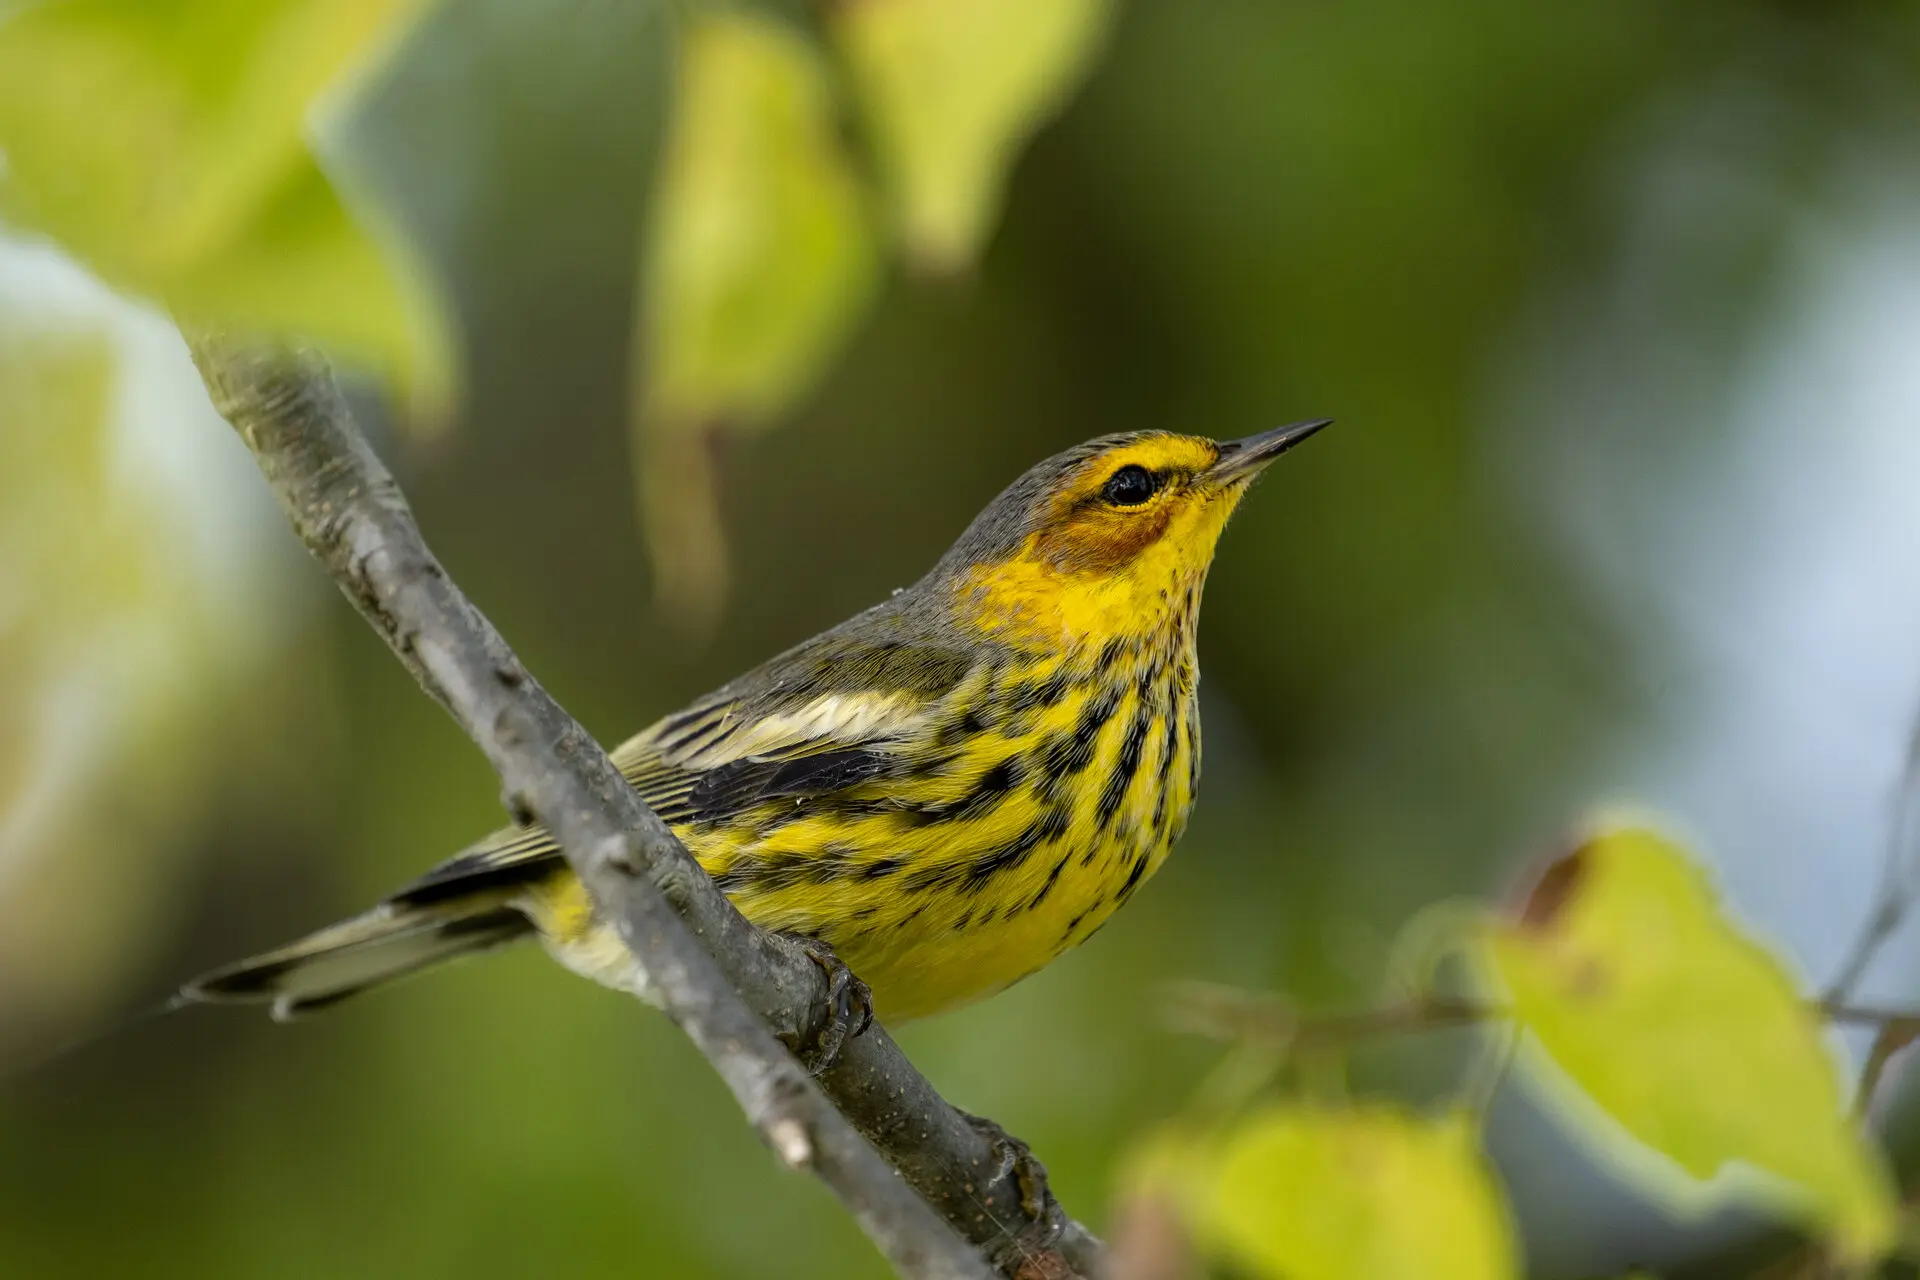
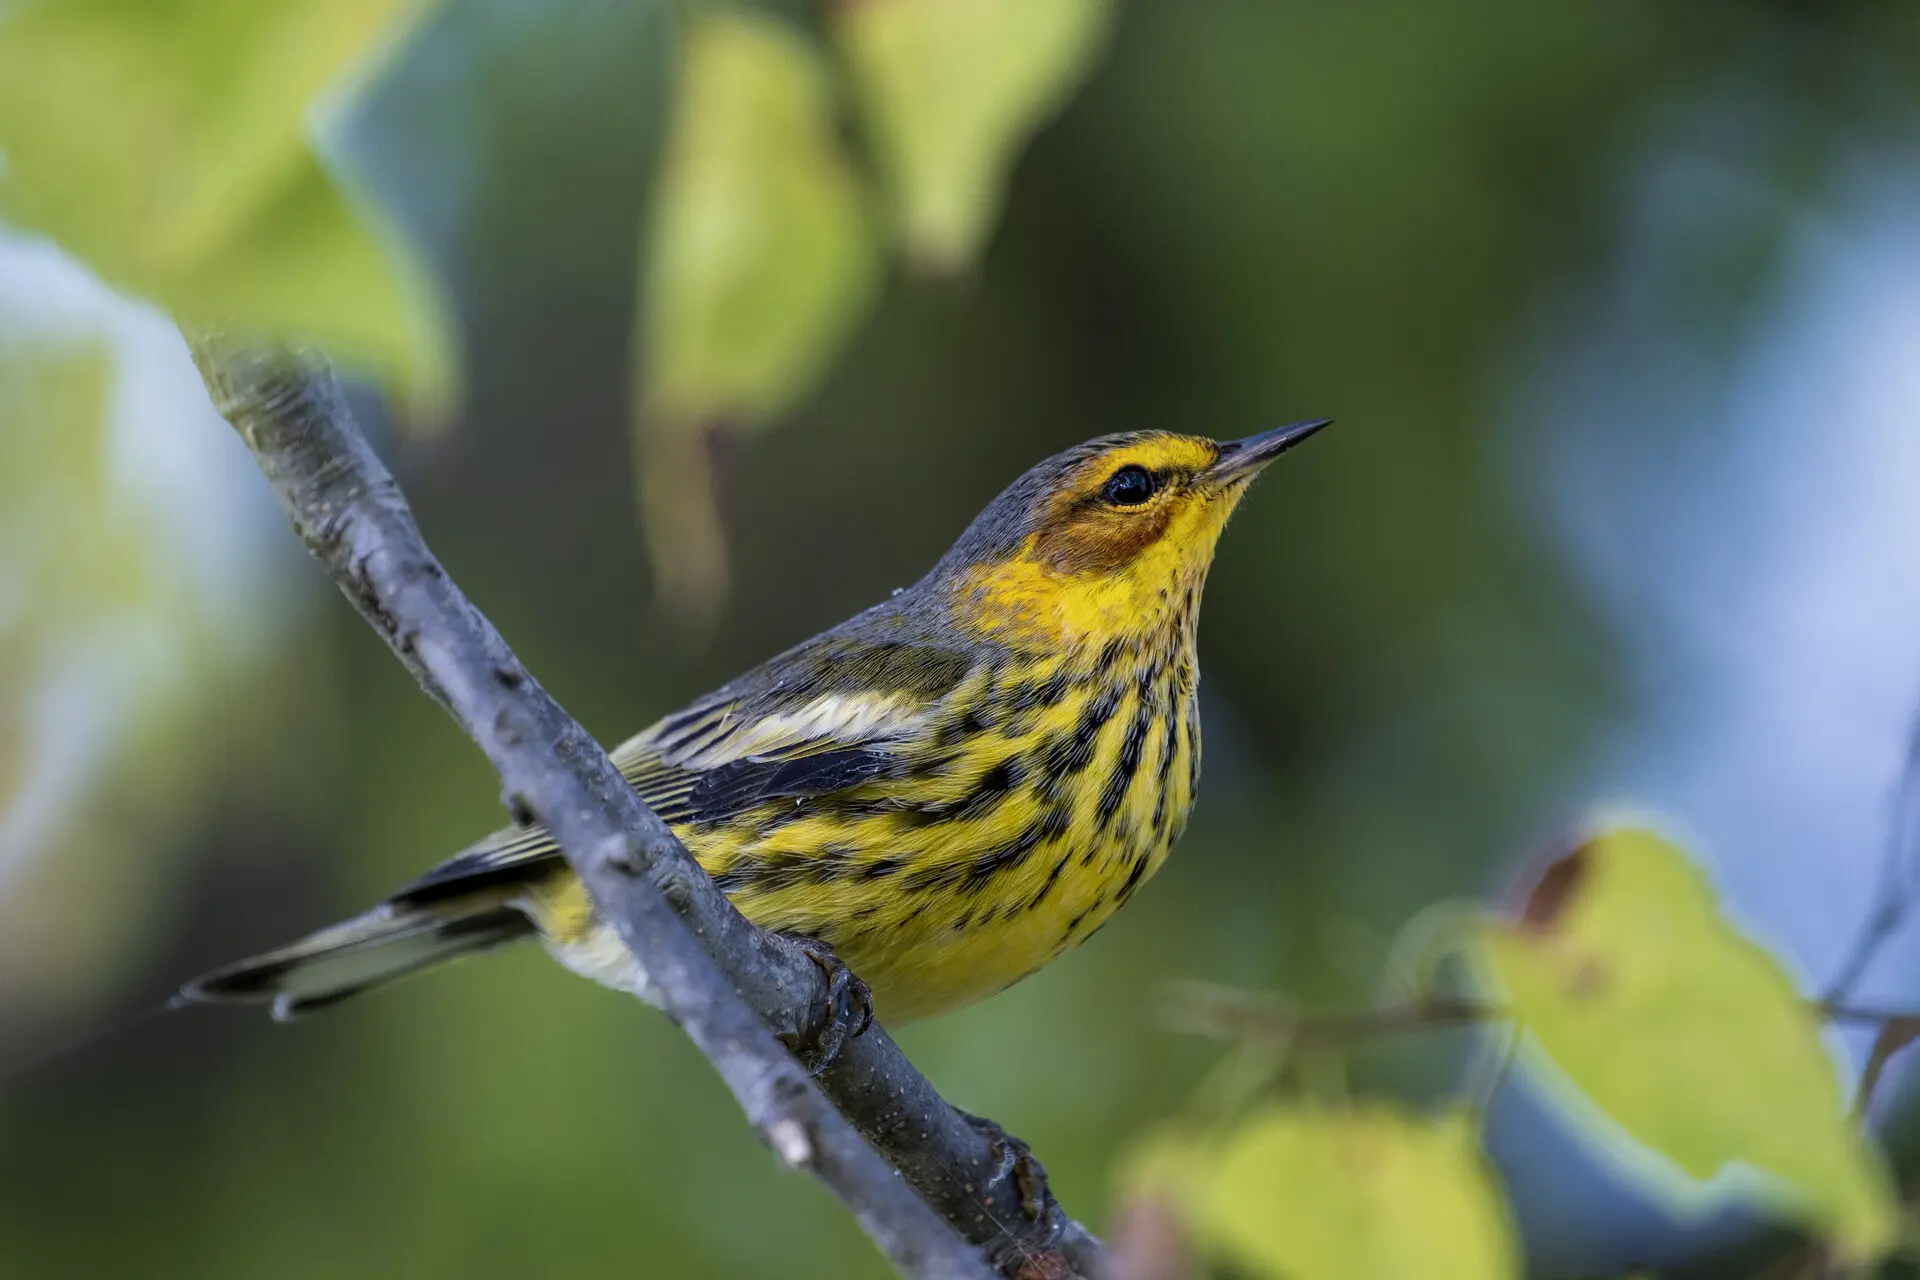
May 2025 photo updates (#8)
* replace warbler album photo

* replace cape may photo

* replace parula

* new warbler photos

* add and display location to photos

* add two photos and locations

diff --git a/assets/js/photos.js b/assets/js/photos.js
@@ -23,7 +23,7 @@ function populatePhotoGrid(jsonFilePath, offset = 0) {
                                     (supportsWebP() && photo.hasWebp ? 'webp' : 'jpg');
 
                 console.debug('Will load ' + photo.file + '.' + imageFormat);
-                let elementDescription = photo.description ? photo.description : photo.name;
+                let elementName = photo.description ? photo.description : photo.name;
                 let lightboxElement = photo.video ? photo.video : data.directory + photo.file + '.' + imageFormat;
                 let lightboxClass = photo.video ? 'mfp-iframe image-popup' : 'image-popup'
 
@@ -38,13 +38,14 @@ function populatePhotoGrid(jsonFilePath, offset = 0) {
                 `;
 
                 albumElement.innerHTML = `
-                        <a href="${lightboxElement}" class="${lightboxClass}" title="${elementDescription}">
+                        <a href="${lightboxElement}" class="${lightboxClass}" title="${elementName}">
                             ${pictureElement}
                             <div class="album-photo-text-wrap">
                                 <div class="album-photo-text">
                                     <h2>${photo.name}</h2>
                                 </div>
                             </div>
+                            ${photo.location ? `<p style="display:none">${photo.location}</p>` : ''}
                         </a>
                     `;
 

diff --git a/assets/js/jquery.magnific-popup.js b/assets/js/jquery.magnific-popup.js
@@ -1110,6 +1110,7 @@ $.magnificPopup.registerModule('image', {
 						'<figcaption>'+
 							'<div class="mfp-bottom-bar">'+
 								'<div class="mfp-title"></div>'+
+								'<div class="mfp-location"></div>'+
 								'<div class="mfp-counter"></div>'+
 							'</div>'+
 						'</figcaption>'+
@@ -1296,7 +1297,8 @@ $.magnificPopup.registerModule('image', {
 
 			mfp._parseMarkup(template, {
 				title: _getTitle(item),
-				img_replaceWith: item.img
+				img_replaceWith: item.img,
+				location: item.el && item.el.find('p').text() || ''
 			}, item);
 
 			mfp.resizeImage();

diff --git a/albums/warblers/index.html b/albums/warblers/index.html
@@ -84,7 +84,7 @@
     <!-- Photos JS -->
     <script src="/assets/js/photos.js"></script>
     <script>
-        populatePhotoGrid('/assets/images/warblers/json/photos.json');
+        populatePhotoGrid('/assets/images/warblers/json/photos.json', 1);
     </script>
 
     <!-- Main JS -->

diff --git a/assets/css/magnific-popup.css b/assets/css/magnific-popup.css
@@ -291,6 +291,13 @@ img.mfp-img {
   word-wrap: break-word;
   padding-right: 36px; }
 
+.mfp-location {
+  text-align: left;
+  line-height: 18px;
+  color: #cccccc;
+  word-wrap: break-word;
+  padding-right: 36px; }
+
 .mfp-image-holder .mfp-content {
   max-width: 100%; }
 
